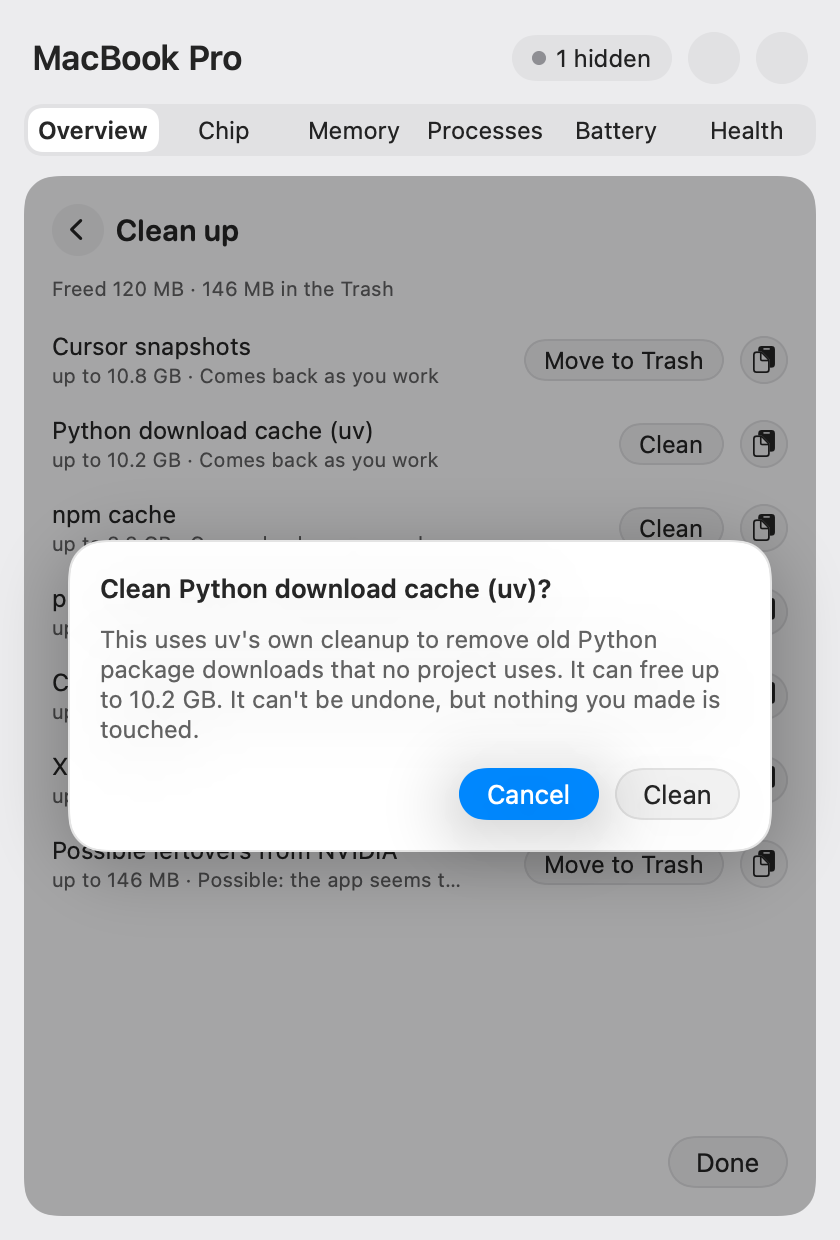
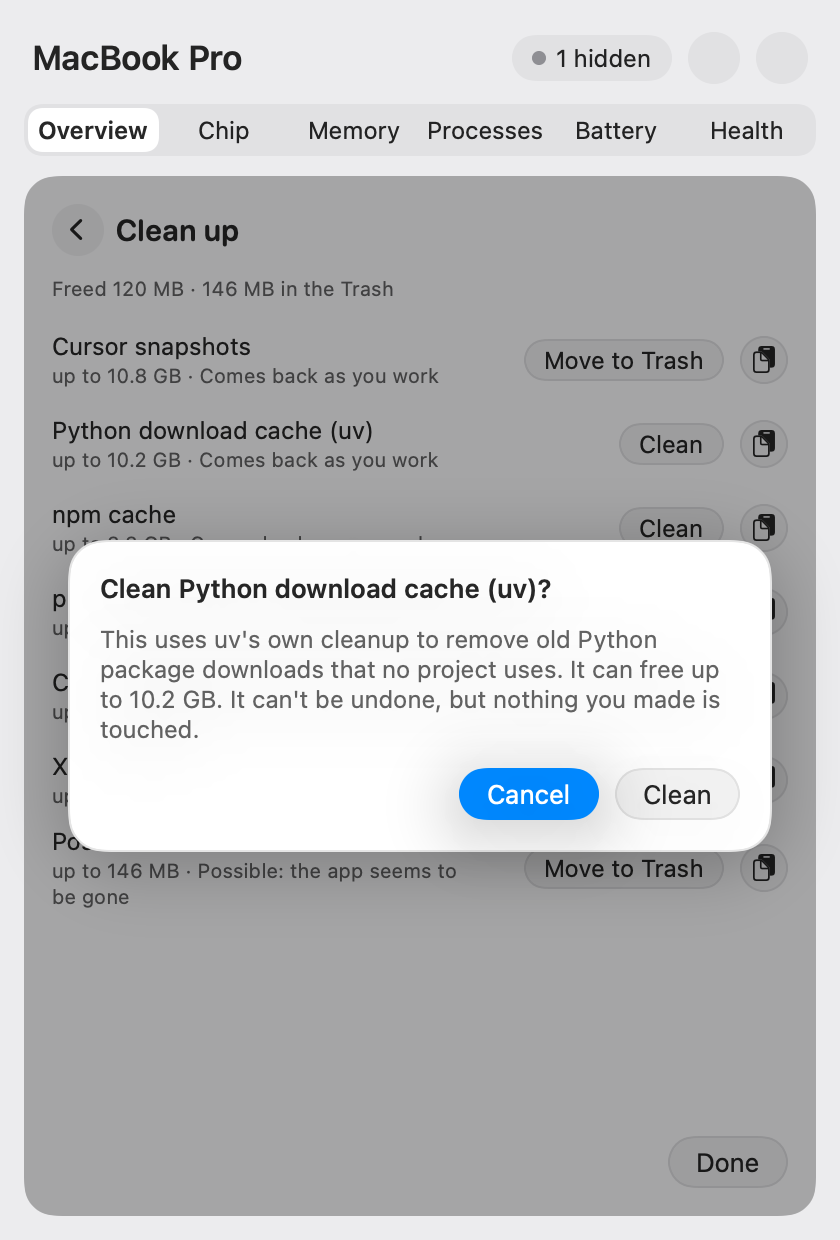
Vitals clean buttons: B2 after the CleanMyMac design system; captions wrap

Changed region(s): [[0.0619, 0.6742, 0.5262, 0.7355], [0.65, 0.6742, 0.8357, 0.7048], [0.8976, 0.6742, 0.9286, 0.7048]]

diff --git a/research/vitals-clean-buttons/directions/Directions.swift b/research/vitals-clean-buttons/directions/Directions.swift
@@ -199,7 +199,7 @@ struct CleanRow: View {
         switch item.state {
         case .ready, .waiting:
             Text(["up to \(item.bytes)", item.note ?? (item.comesBack ? "Comes back as you work" : nil)].compactMap { $0 }.joined(separator: " · "))
-                .font(.caption).foregroundStyle(secondary).lineLimit(1)
+                .font(.caption).foregroundStyle(secondary).lineLimit(2).fixedSize(horizontal: false, vertical: true)
         case .blocked(let msg):
             Text("up to \(item.bytes) · \(msg)").font(.caption).foregroundStyle(secondary).lineLimit(2)
         case .cleaning:
@@ -417,6 +417,63 @@ struct AlertMock: View {
     }
 }
 
+// MARK: - Direction B2: B with what fits from CleanMyMac's Manager sheet
+// Borrowed: a real icon per row, Back + centred title, a footer with the running total and Done.
+// Not borrowed (Vitals rules): checkboxes and one Run for all, a "junk" total, colour, glossy renders.
+
+func icon(_ id: String) -> NSImage {
+    let apps = ["cursor": "/Applications/Cursor.app", "derived": "/Applications/Xcode.app", "codex": "/Applications/ChatGPT.app"]
+    if let path = apps[id], FileManager.default.fileExists(atPath: path) { return NSWorkspace.shared.icon(forFile: path) }
+    return NSWorkspace.shared.icon(for: .folder)
+}
+
+struct DirectionB2: View {
+    var items: [Item]
+    var sheet = false
+    var body: some View {
+        PanelChrome {
+            ZStack {
+                VStack(spacing: 0) {
+                    ZStack {
+                        HStack {
+                            Image(systemName: "chevron.left").font(.system(size: 12, weight: .semibold))
+                                .frame(width: 26, height: 26).background(Circle().fill(.fill.tertiary))
+                            Spacer()
+                        }
+                        Text("Clean up").font(.body.weight(.semibold))
+                    }
+                    .padding(.horizontal, 14).padding(.vertical, 10)
+                    Divider()
+                    VStack(spacing: 2) {
+                        ForEach(items) { item in
+                            HStack(spacing: 10) {
+                                Image(nsImage: icon(item.id)).resizable().frame(width: 28, height: 28)
+                                CleanRow(item: item)
+                                CopyIcon()
+                            }
+                        }
+                    }
+                    .padding(.horizontal, 14).padding(.top, 8)
+                    Spacer(minLength: 0)
+                    Divider()
+                    HStack {
+                        Text("Freed 120 MB · 146 MB in the Trash").font(.callout).foregroundStyle(secondary)
+                        Spacer()
+                        GlassButton(title: "Done", small: false)
+                    }
+                    .padding(.horizontal, 14).padding(.vertical, 10)
+                }
+                .frame(maxWidth: .infinity, maxHeight: .infinity)
+                .background(RoundedRectangle(cornerRadius: 16, style: .continuous).fill(.fill.quaternary))
+                if sheet {
+                    RoundedRectangle(cornerRadius: 16, style: .continuous).fill(Color.black.opacity(0.28))
+                    SheetConfirm().padding(.horizontal, 22)
+                }
+            }
+        }
+    }
+}
+
 // MARK: - Render
 
 @MainActor func render<V: View>(_ view: V, _ path: String, dark: Bool) {
@@ -448,6 +505,8 @@ struct AlertMock: View {
             ("B-1-entry", AnyView(DirectionBEntry())),
             ("B-2-session", AnyView(DirectionB(items: mid))),
             ("B-3-confirm", AnyView(DirectionB(items: base, sheet: true))),
+            ("B2-session", AnyView(DirectionB2(items: mid))),
+            ("B2-confirm", AnyView(DirectionB2(items: base, sheet: true))),
             ("C-1-session", AnyView(DirectionC(items: mid))),
             ("C-2-confirm", AnyView(DirectionC(items: base, alert: true))),
         ]

diff --git a/research/vitals-clean-buttons/README.md b/research/vitals-clean-buttons/README.md
@@ -13,6 +13,11 @@ Glass, spinners, the segmented control and NSAlert are flat stand-ins: ImageRend
 
 Pictures: `A-1-session`, `A-2-confirm`, `B-1-entry`, `B-2-session`, `B-3-confirm`, `C-1-session`, `C-2-confirm`, each light and dark.
 
+## B2, after reading the CleanMyMac design system (Nov 14)
+Evan's CleanMyMac design system (claude.ai artifact, measured from the main window, not its menu-bar mini app) backs B: "Totals, not lists", with the list one level down in a Manager screen reached by Review, with Back and Done.
+B2 takes what fits Vitals' rules: a real app or folder icon per row (Cursor, ChatGPT, Xcode; a folder for the rest), Back with a centred title, and a footer with the running total and Done (`B2-session`, `B2-confirm`).
+Left out on purpose: pre-ticked checkboxes with one Run for everything (no "Clean all"), a "5.2 GB of junk" total (no junk total), colour-coded canvases, magenta and glossy renders (colour means status only), and its "Looking for junk…" voice (no ellipses).
+
 ## Blind read (three reviewers, not told which was preferred)
 A CleanMyMac user, a macOS designer and an honesty reviewer. Rankings: **B, A, C**; B, A, C; B, C, A.
 - B: every state is visible together, the total and Put Back stay in view, and the sheet stops a second press.
